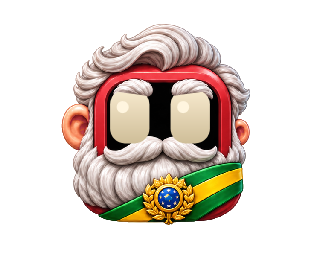
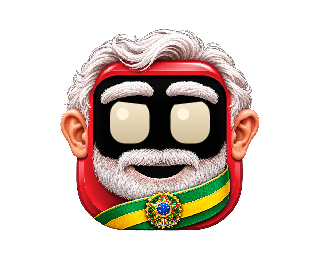
Document Android 0.20 Presidente artwork, native preview and release files

Changed region(s): [[0.1875, 0.0923, 0.8125, 0.8923]]

diff --git a/docs/android/versions/README.md b/docs/android/versions/README.md
@@ -4,7 +4,7 @@
 
 ## Baixar agora
 
-**[Baixar o APK mais recente](https://github.com/duOCELOT/pestinha-duOCELOT/releases/latest/download/Pestinha-Android.apk)** — versão atual: **0.19 experimental**.
+**[Baixar o APK mais recente](https://github.com/duOCELOT/pestinha-duOCELOT/releases/latest/download/Pestinha-Android.apk)** — versão atual: **0.20 experimental**.
 
 O APK atual inclui as funções anteriores; não é necessário instalar as versões em sequência. Android 8.0+, ARM64 ou x86_64.
 
@@ -14,7 +14,8 @@ Cada pasta é independente: contém novidades, links fixos e metadados do seu AP
 
 | Versão | Destaque | Pasta e detalhes | Download fixo |
 | --- | --- | --- | --- |
-| **0.19 · atual** | Categorias verticais e Quebra-blocos | [0.19/](0.19/README.md) | [APK](https://github.com/duOCELOT/pestinha-duOCELOT/releases/download/android-v0.19.0/Pestinha-Android.apk) |
+| **0.20 · atual** | Presidente com barba e orelhas refinadas | [0.20/](0.20/README.md) | [APK](https://github.com/duOCELOT/pestinha-duOCELOT/releases/download/android-v0.20.0/Pestinha-Android.apk) |
+| **0.19** | Categorias verticais e Quebra-blocos | [0.19/](0.19/README.md) | [APK](https://github.com/duOCELOT/pestinha-duOCELOT/releases/download/android-v0.19.0/Pestinha-Android.apk) |
 | **0.18** | Controles do pet no topo | [0.18/](0.18/README.md) | [APK](https://github.com/duOCELOT/pestinha-duOCELOT/releases/download/android-v0.18.0/Pestinha-Android.apk) |
 | **0.17** | Arte detalhada e personalização | [0.17/](0.17/README.md) | [APK](https://github.com/duOCELOT/pestinha-duOCELOT/releases/download/android-v0.17.0/Pestinha-Android.apk) |
 | **0.16** | Presidente e seletor no topo | [0.16/](0.16/README.md) | [APK](https://github.com/duOCELOT/pestinha-duOCELOT/releases/download/android-v0.16.0/Pestinha-Android.apk) |
@@ -28,10 +29,11 @@ Cada pasta é independente: contém novidades, links fixos e metadados do seu AP
 versions/
 ├── README.md           # catálogo e versão atual
 ├── HISTORICO.md        # etapas sem APK público separado
-├── 0.19/
+├── 0.20/
 │   ├── README.md       # novidades, arquivos e integridade
 │   ├── release.json    # tag, commit, hashes e requisitos
 │   └── images/         # prévias produzidas nesta versão
+├── 0.19/               # mesma organização
 ├── 0.18/               # mesma organização
 ├── 0.17/               # mesma organização
 ├── 0.16/               # mesma organização

diff --git a/README.md b/README.md
@@ -8,7 +8,7 @@ Pets sobre os aplicativos · Cuidados · Tarefas · Notícias · Quebra-blocos t
 
 [**Baixar APK**](https://github.com/duOCELOT/pestinha-duOCELOT/releases/latest/download/Pestinha-Android.apk) · [Guia de uso](docs/android/GUIA-DO-APK.md) · [Versões](docs/android/versions/README.md)
 
-**0.19 experimental** · Android 8.0 ou superior · ARM64 / x86_64
+**0.20 experimental** · Android 8.0 ou superior · ARM64 / x86_64
 
 </div>
 
@@ -53,7 +53,7 @@ O Pestinha vive em uma janela transparente sobre os seus aplicativos. Você pode
 <tr>
 <td align="center"><img src="docs/android/versions/0.13/images/memoria.png" width="230" alt="Painel de memória e necessidades, com valores de exemplo"><br><b>Memória · prévia 0.13</b><br>Gráficos, estado do pet, aprendizado e backup.</td>
 <td align="center"><img src="docs/android/versions/0.19/images/quebra-blocos.png" width="230" alt="Quebra-blocos transparente com Mimir como plataforma"><br><b>Quebra-blocos · 0.19</b><br>O próprio pet vira a plataforma sobre o app aberto.</td>
-<td align="center"><img src="docs/android/versions/0.17/images/presidente.png" width="230" alt="Presidente com arte detalhada, barba branca e faixa decorativa"><br><b>Arte dos pets · 0.17</b><br>Olhos animados e cores personalizáveis.</td>
+<td align="center"><img src="docs/android/versions/0.20/images/presidente.png" width="230" alt="Presidente com arte detalhada, barba branca e faixa decorativa"><br><b>Presidente · 0.20</b><br>Olhos animados e cores personalizáveis.</td>
 </tr>
 </table>
 
@@ -76,7 +76,7 @@ As imagens são **prévias de Views Android renderizadas em testes**, com dados 
 <img src="docs/android/versions/0.17/images/bryan.png" width="155" alt="Bryan">
 <img src="docs/android/versions/0.17/images/mimir.png" width="155" alt="Mimir de elmo viking">
 <img src="docs/android/versions/0.17/images/luna.png" width="155" alt="Luna com cabelo e laço">
-<img src="docs/android/versions/0.17/images/presidente.png" width="155" alt="Presidente">
+<img src="docs/android/versions/0.20/images/presidente.png" width="155" alt="Presidente">
 </p>
 
 | Personagem | Personalidade e identidade |

diff --git a/docs/android/versions/0.20/README.md b/docs/android/versions/0.20/README.md
@@ -1,0 +1,30 @@
+# Android 0.20 — Presidente refinado
+
+**Versão atual · experimental** · Android 8.0+, ARM64/x86_64 · versionCode 21.
+
+[Catálogo](../README.md) · [Guia atual](../../GUIA-DO-APK.md) · [Projeto](../../../../README.md)
+
+## Novidades
+
+- Barba branca mais curta e arredondada, com fios menores e bigode natural.
+- Orelhas com contornos, dobras e proporções refinados, preservando a assimetria.
+- Arte própria para o Presidente e olhos animados ajustados ao rosto.
+- Cores, nome, ID, memórias, recordes e demais personagens preservados.
+
+O novo desenho corresponde ao acessório Original. Itens e cores já escolhidos continuam salvos. Trocar de item segue usando a base detalhada com o acessório escolhido.
+
+## Arquivos
+
+- [Baixar APK 0.20](https://github.com/duOCELOT/pestinha-duOCELOT/releases/download/android-v0.20.0/Pestinha-Android.apk)
+- [SHA256SUMS.txt](https://github.com/duOCELOT/pestinha-duOCELOT/releases/download/android-v0.20.0/SHA256SUMS.txt)
+- [Release](https://github.com/duOCELOT/pestinha-duOCELOT/releases/tag/android-v0.20.0)
+- [Código correspondente](https://github.com/duOCELOT/pestinha-duOCELOT/tree/android-v0.20.0)
+- [Metadados, commit e hashes](release.json)
+
+Instale sobre a versão atual para manter os dados. APK experimental de desenvolvimento, com assinatura fixa. Desinstalar ou limpar dados apaga os registros locais.
+
+## Prévia do app
+
+<img src="images/presidente.png" width="320" alt="Presidente com barba curta, bigode natural e orelhas refinadas">
+
+View Android renderizada em teste, não captura de telefone. [Compilação validada](https://github.com/duOCELOT/pestinha-duOCELOT/actions/runs/41655741049).

diff --git a/docs/android/images/README.md b/docs/android/images/README.md
@@ -20,7 +20,8 @@ A 0.14 tem Release e metadados, mas não uma galeria arquivada neste catálogo. 
 
 | Arquivos | Versão de origem | Teste |
 | --- | --- | --- |
-| `inicio.png`, `bryan.png`, `mimir.png`, `luna.png`, `presidente.png` | 0.17 | `DesignTest` |
+| `inicio.png`, `bryan.png`, `mimir.png`, `luna.png` | 0.17 | `DesignTest` |
+| `presidente.png` | 0.20 | `DesignTest` |
 | `menu-rapido.png` | 0.13 | `DesignTest` |
 | `radar.png` | 0.13 | `InterestsDesignTest` |
 | `memoria.png` | 0.13 | `DashboardTest` |
@@ -38,3 +39,7 @@ Interface e documentação seguem a [licença do projeto](../../../LICENSE).
 ## Prévias da 0.19
 
 A [galeria 0.19](../versions/0.19/README.md) traz início, menu rápido e Quebra-blocos, extraídos dos testes DesignTest e BrickGameOverlayTest na [compilação validada](https://github.com/duOCELOT/pestinha-duOCELOT/actions/runs/41654350495). As galerias antigas mantêm suas imagens originais.
+
+## Presidente na 0.20
+
+`presidente.png` foi atualizado e arquivado também em [0.20/images/presidente.png](../versions/0.20/images/presidente.png), a partir de `DesignTest` na [compilação validada 41655741049](https://github.com/duOCELOT/pestinha-duOCELOT/actions/runs/41655741049). Barba e orelhas usam arte dedicada gerada a partir da referência do mantenedor; olhos e cor de borda são aplicados pelo app. As galerias anteriores permanecem intactas.

diff --git a/docs/android/ARTE-HD.md b/docs/android/ARTE-HD.md
@@ -7,3 +7,9 @@ O atlas `android/app/src/main/assets/art/pets-hd.png` foi gerado a partir das re
 O visual original usa a arte detalhada. Selecionar outro acessório usa a base detalhada de Bryan e o acessório desenhado pelo app; isso permite trocar ou remover itens sem deixar o item original preso na imagem. Separar todos os acessórios em camadas de igual qualidade é um próximo passo. Preferências de cores e memórias são preservadas.
 
 A arte raster é adaptada, não um modelo 3D. As imagens de referência e a geração não garantem identidade pixel a pixel. Validar no aparelho arraste, inclinação, tamanho, desempenho e transparência sobre apps claros e escuros.
+
+## Presidente na 0.20
+
+O Presidente passa a usar o arquivo independente `android/app/src/main/assets/art/presidente-hd.png`, com barba mais curta, bigode natural e orelhas refinadas. Os outros personagens continuam no atlas original. O carregador reduz a resolução ao decodificar esta arte e mantém a recoloração e a limpeza de transparência em cache. A altura e a posição dos olhos animados acompanham o novo desenho.
+
+O nome e o ID do personagem não mudam; memórias, recordes e preferências são preservados. A arte refinada corresponde ao visual Original. Selecionar outro item continua usando a base detalhada com o acessório escolhido.

diff --git a/CHANGELOG.md b/CHANGELOG.md
@@ -1,6 +1,6 @@
 # Changelog — Pestinha Android
 
-**Atual: 0.19 experimental.** [Baixar APK](https://github.com/duOCELOT/pestinha-duOCELOT/releases/latest/download/Pestinha-Android.apk) · [Catálogo completo](docs/android/versions/README.md) · [Projeto](README.md)
+**Atual: 0.20 experimental.** [Baixar APK](https://github.com/duOCELOT/pestinha-duOCELOT/releases/latest/download/Pestinha-Android.apk) · [Catálogo completo](docs/android/versions/README.md) · [Projeto](README.md)
 
 ## Releases publicadas
 
@@ -8,7 +8,8 @@ Cada versão tem uma página própria com novidades, download fixo, requisitos, 
 
 | Versão | Mudança principal | Detalhes e arquivos |
 | --- | --- | --- |
-| 0.19 · atual | Categorias recolhíveis e nome Quebra-blocos | [0.19/](docs/android/versions/0.19/README.md) |
+| 0.20 · atual | Presidente: barba curta e orelhas refinadas | [0.20/](docs/android/versions/0.20/README.md) |
+| 0.19 | Categorias recolhíveis e nome Quebra-blocos | [0.19/](docs/android/versions/0.19/README.md) |
 | 0.18 | Mostrar pet e Recolher pet juntos no topo | [0.18/](docs/android/versions/0.18/README.md) |
 | 0.17 | Arte detalhada e personalização | [0.17/](docs/android/versions/0.17/README.md) |
 | 0.16 | Presidente e seletor no topo | [0.16/](docs/android/versions/0.16/README.md) |

diff --git a/docs/android/CUIDADOS.md b/docs/android/CUIDADOS.md
@@ -53,8 +53,12 @@ O acabamento usa gradientes nativos e acessórios em camadas, não uma imagem 3D
 
 <img src="images/presidente.png" width="280" alt="Presidente com moldura vermelha forte, barba branca e faixa decorativa">
 
-Prévia nativa renderizada nos testes da compilação 0.17; não é captura de um aparelho. Preferências de cor salvas são mantidas: use **Restaurar visual original** para voltar à paleta padrão do personagem.
+Prévia nativa renderizada nos testes da compilação 0.20; não é captura de um aparelho. Preferências de cor salvas são mantidas: use **Restaurar visual original** para voltar à paleta padrão do personagem.
 
 ## Arte detalhada na 0.17
 
 O visual original agora usa arte raster detalhada com olhos animados separados. Cores da moldura e dos olhos seguem configuráveis. Ao escolher outro acessório, usa-se o corpo básico detalhado com o item desenhado pelo app. Veja [arte e limitações](ARTE-HD.md).
+
+## Presidente na 0.20
+
+Barba mais curta e arredondada, bigode natural e orelhas com novos contornos. O novo desenho mantém olhos animados e cores personalizáveis. Para usar a arte refinada, selecione o acessório Original; cores e outros itens já escolhidos não são apagados pela atualização.

diff --git a/.github/release-notes/android-v0.20.0.md b/.github/release-notes/android-v0.20.0.md
@@ -1,0 +1,9 @@
+## Presidente: barba e orelhas refinadas
+
+- Barba branca mais curta e arredondada, com fios menores e volume mais próximo da referência.
+- Bigode natural, com menos curvatura nas pontas, e abertura da boca definida.
+- Orelhas com contornos, dobras e proporções refinados, preservando a assimetria.
+- Arte independente para o Presidente; demais personagens preservados.
+- Olhos animados ajustados ao novo rosto. Cores de olhos e moldura, nome, memórias e recordes mantidos.
+
+Instale **Pestinha-Android.apk** sobre a versão atual para preservar os dados. Android 8.0+, ARM64/x86_64. APK experimental de desenvolvimento, com assinatura fixa e debuggable=true. O novo visual aparece no acessório Original; escolhas de cores e itens existentes são mantidas.

diff --git a/docs/android/versions/0.19/README.md b/docs/android/versions/0.19/README.md
@@ -1,6 +1,6 @@
 # Android 0.19 — Categorias e Quebra-blocos
 
-**Versão atual · experimental** · Android 8.0+, ARM64/x86_64 · versionCode 20.
+**Versão arquivada · experimental** · Android 8.0+, ARM64/x86_64 · versionCode 20.
 
 [Catálogo](../README.md) · [Guia atual](../../GUIA-DO-APK.md) · [Projeto](../../../../README.md)
 

diff --git a/docs/android/GUIA-DO-APK.md b/docs/android/GUIA-DO-APK.md
@@ -1,6 +1,6 @@
 # Guia do APK: telas, funções e uso
 
-**Guia da versão atual: Pestinha Android 0.19 experimental.**
+**Guia da versão atual: Pestinha Android 0.20 experimental.**
 [Versões anteriores e seus arquivos](versions/README.md)
 [Apresentação](README.md) · [Referência técnica](REFERENCIA-TECNICA.md)
 
